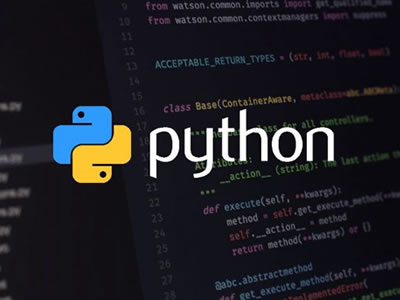
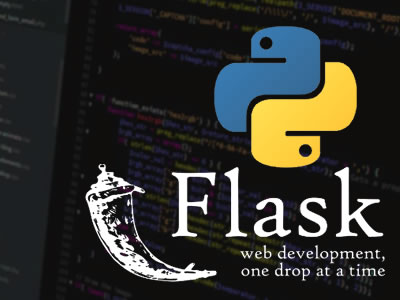
Corregir todas las imagenes de classroom y su descripcion

diff --git a/index.html b/index.html
@@ -334,7 +334,7 @@
             <img class="img-fluid" src="img/portfolio/12-python.jpg" alt="">
           </a>
           <div class="portfolio-caption">
-            <h4>Python</h4>
+            <h4>Flask</h4>
             <p class="text-muted">Twelfth Class</p>
           </div>
         </div>
@@ -945,9 +945,9 @@
               <div class="modal-body">
                 <!-- Project Details Go Here -->
                 <h2 class="text-uppercase">Nube Amazon (AWS)</h2>
-                <p class="item-intro text-muted">Lorem ipsum dolor sit amet consectetur.</p>
+                <p class="item-intro text-muted">Se aprende sobre qué es la nube se Amazon, sus servicios, qué es SSH, cómo crear una máquina virtual en AWS y cómo conectarse a la instancia de EC2 que se creó en AWS por medio de PuTTY y una llave.</p>
                 <img class="img-fluid d-block mx-auto" src="img/portfolio/04-full.jpg" alt="">
-                <p>Use this area to describe your project. Lorem ipsum dolor sit amet, consectetur adipisicing elit. Est blanditiis dolorem culpa incidunt minus dignissimos deserunt repellat aperiam quasi sunt officia expedita beatae cupiditate, maiores repudiandae, nostrum, reiciendis facere nemo!</p>
+                <p>Amazon Web Services (AWS abreviado) es una colección de servicios de computación en la nube pública (también llamados servicios web) que en conjunto forman una plataforma de computación en la nube, ofrecidas a través de Internet por Amazon.com. La tecnología AWS se implementa en granjas de servidores en todo el mundo y es mantenida por la subsidiaria de Amazon. Las tarifas se basan en una combinación de uso, las características de hardware / SO / software / redes elegidas por el suscriptor, la disponibilidad requerida , la redundancia , la seguridad y las opciones de servicio. Los suscriptores pueden pagar por una sola computadora virtual de AWS, una computadora física dedicada o clusters de cualquiera de los dos. Amazon ofrece AWS a los suscriptores como una forma de obtener capacidad de cómputo a gran escala de forma más rápida y económica que la construcción de una granja de servidores físicos reales.</p>
                 <ul class="list-inline">
                   <li>Date: March 2019</li>
                   <li>Speaker: Alejandro Troncoso</li>
@@ -1013,9 +1013,9 @@
               <div class="modal-body">
                 <!-- Project Details Go Here -->
                 <h2 class="text-uppercase">Motor de Procesos</h2>
-                <p class="item-intro text-muted">Lorem ipsum dolor sit amet consectetur.</p>
+                <p class="item-intro text-muted">Se aprende sobre qué es un BPM, para que sirven y cómo se usan.</p>
                 <img class="img-fluid d-block mx-auto" src="img/portfolio/06-full.jpg" alt="">
-                <p>Use this area to describe your project. Lorem ipsum dolor sit amet, consectetur adipisicing elit. Est blanditiis dolorem culpa incidunt minus dignissimos deserunt repellat aperiam quasi sunt officia expedita beatae cupiditate, maiores repudiandae, nostrum, reiciendis facere nemo!</p>
+                <p>Business Process Management se refiere a la forma en que una empresa maneja sus operaciones diarias. BPM es un término autodescriptivo, ya que se trata de administrar sus procesos comerciales de manera eficiente. Es un término colectivo que denota el uso de sus recursos disponibles, incluidos sus empleados, periféricos y tareas para obtener el máximo resultado. BPM se trata principalmente de manejar eficientemente los procesos repetitivos para que consuman menos tiempo y recursos humanos. La gestión de procesos de negocio o BPM generalmente se divide en tres tipos principales: BPM para Documentos, BPM para la fuerza laboral y BPM para la integración. Business Process Management, por razones obvias, se considera el santo grial del éxito de una organización porque ha ayudado a millones de empresas en todo el mundo a lograr sus objetivos de una manera racional. El concepto es muy simple: cuando hay múltiples tareas y varias personas participan en su ejecución, a menudo conduce a una situación caótica a menos que exista una metodología específica. La forma más simple de administración de procesos de negocios es configurar una jerarquía para un proceso cuando la información de un cliente se recopila de una persona, un administrador la ingresa en el sistema y el gerente la revisa. Más tarde, los vendedores pueden utilizarlo para realizar llamadas o completar un trato comercial. Funciona de manera diferente según las necesidades del negocio.</p>
                 <ul class="list-inline">
                   <li>Date: March 2019</li>
                   <li>Speaker: Alejandro Troncoso</li>
@@ -1047,9 +1047,9 @@
               <div class="modal-body">
                 <!-- Project Details Go Here -->
                 <h2 class="text-uppercase">Crear Base de Datos</h2>
-                <p class="item-intro text-muted">Lorem ipsum dolor sit amet consectetur.</p>
+                <p class="item-intro text-muted">Se aprende sobre cómo instalar Apache en la máquina virtual de AWS y cómo crear una base de datos de Oracle en AWS.</p>
                 <img class="img-fluid d-block mx-auto" src="img/portfolio/07-full.jpg" alt="">
-                <p>prueba del 7 Use this area to describe your project. Lorem ipsum dolor sit amet, consectetur adipisicing elit. Est blanditiis dolorem culpa incidunt minus dignissimos deserunt repellat aperiam quasi sunt officia expedita beatae cupiditate, maiores repudiandae, nostrum, reiciendis facere nemo!</p>
+                <p>Cientos de miles de clientes han adoptado los servicios de base de datos desarrollados para la nube de AWS debido a que ofrecen un rendimiento y una escalabilidad superiores, resultan más fáciles de administrar y son más rentables y fiables que los productos de base de datos de la "vieja guardia". La cartera de bases de datos personalizadas de AWS admite distintos modelos de datos y le permite desarrollar aplicaciones distribuidas, altamente escalables y basadas en casos de uso. Con las bases de datos de AWS, se puede comenzar con pocos recursos e ir aumentándolos a medida que crece la aplicación. Las bases de datos de AWS están diseñadas para soportar cargas de trabajo empresariales de importancia crítica y ofrecen una alta fiabilidad y disponibilidad. </p>
                 <ul class="list-inline">
                   <li>Date: April 2019</li>
                   <li>Speaker: Alejandro Troncoso</li>
@@ -1081,9 +1081,9 @@
               <div class="modal-body">
                 <!-- Project Details Go Here -->
                 <h2 class="text-uppercase">REST</h2>
-                <p class="item-intro text-muted">Lorem ipsum dolor sit amet consectetur.</p>
-                <img class="img-fluid d-block mx-auto" src="img/portfolio/05-full.jpg" alt="">
-                <p>Use this area to describe your project. Lorem ipsum dolor sit amet, consectetur adipisicing elit. Est blanditiis dolorem culpa incidunt minus dignissimos deserunt repellat aperiam quasi sunt officia expedita beatae cupiditate, maiores repudiandae, nostrum, reiciendis facere nemo!</p>
+                <p class="item-intro text-muted">Se aprende sobre qué es REST, sus características o limitantes y los métodos en los que se apoya para manipular recursos.</p>
+                <img class="img-fluid d-block mx-auto" src="img/portfolio/08-full.jpg" alt="">
+                <p>La transferencia de estado representacional (en inglés Representational State Transfer) o REST es un estilo de arquitectura software para sistemas hipermedia distribuidos como la World Wide Web. El término se originó en el año 2000, en una tesis doctoral sobre la web escrita por Roy Fielding, uno de los principales autores de la especificación del protocolo HTTP y ha pasado a ser ampliamente utilizado por la comunidad de desarrollo. REST es cualquier interfaz entre sistemas que  use HTTP para obtener datos o generar operaciones sobre esos datos en todos los formatos posibles, como XML y JSON, es una Arquitectura para comunicarnos con el servidor desde el cliente. Se apoya en el protocolo HTTP y sus métodos básicos de petición para manipular los recursos: GET, POST, PUT, DELETE, etc. Características que debe tener todas las API basadas en la arquitectura REST: Arquitectura Cliente/Servidor, Stateles, Cacheability, Sistema basado en capas, Uniform Interface y Código on Demand (opcional).</p>
                 <ul class="list-inline">
                   <li>Date: April 2019</li>
                   <li>Speaker: Alejandro Troncoso</li>
@@ -1152,7 +1152,7 @@
                 <!-- Project Details Go Here -->
                 <h2 class="text-uppercase">Docker</h2>
                 <p class="item-intro text-muted">Lorem ipsum dolor sit amet consectetur.</p>
-                <img class="img-fluid d-block mx-auto" src="img/portfolio/05-full.jpg" alt="">
+                <img class="img-fluid d-block mx-auto" src="img/portfolio/10-full.jpg" alt="">
                 <p>Use this area to describe your project. Lorem ipsum dolor sit amet, consectetur adipisicing elit. Est blanditiis dolorem culpa incidunt minus dignissimos deserunt repellat aperiam quasi sunt officia expedita beatae cupiditate, maiores repudiandae, nostrum, reiciendis facere nemo!</p>
                 <ul class="list-inline">
                   <li>Date: May 2019</li>
@@ -1186,7 +1186,7 @@
                 <!-- Project Details Go Here -->
                 <h2 class="text-uppercase">Camunda</h2>
                 <p class="item-intro text-muted">Lorem ipsum dolor sit amet consectetur.</p>
-                <img class="img-fluid d-block mx-auto" src="img/portfolio/05-full.jpg" alt="">
+                <img class="img-fluid d-block mx-auto" src="img/portfolio/11-full.jpg" alt="">
                 <p>Use this area to describe your project. Lorem ipsum dolor sit amet, consectetur adipisicing elit. Est blanditiis dolorem culpa incidunt minus dignissimos deserunt repellat aperiam quasi sunt officia expedita beatae cupiditate, maiores repudiandae, nostrum, reiciendis facere nemo!</p>
                 <ul class="list-inline">
                   <li>Date: May 2019</li>
@@ -1218,9 +1218,9 @@
             <div class="col-lg-8 mx-auto">
               <div class="modal-body">
                 <!-- Project Details Go Here -->
-                <h2 class="text-uppercase">Python</h2>
+                <h2 class="text-uppercase">Flask</h2>
                 <p class="item-intro text-muted">Lorem ipsum dolor sit amet consectetur.</p>
-                <img class="img-fluid d-block mx-auto" src="img/portfolio/05-full.jpg" alt="">
+                <img class="img-fluid d-block mx-auto" src="img/portfolio/12-full.jpg" alt="">
                 <p>Use this area to describe your project. Lorem ipsum dolor sit amet, consectetur adipisicing elit. Est blanditiis dolorem culpa incidunt minus dignissimos deserunt repellat aperiam quasi sunt officia expedita beatae cupiditate, maiores repudiandae, nostrum, reiciendis facere nemo!</p>
                 <ul class="list-inline">
                   <li>Date: May 2019</li>
